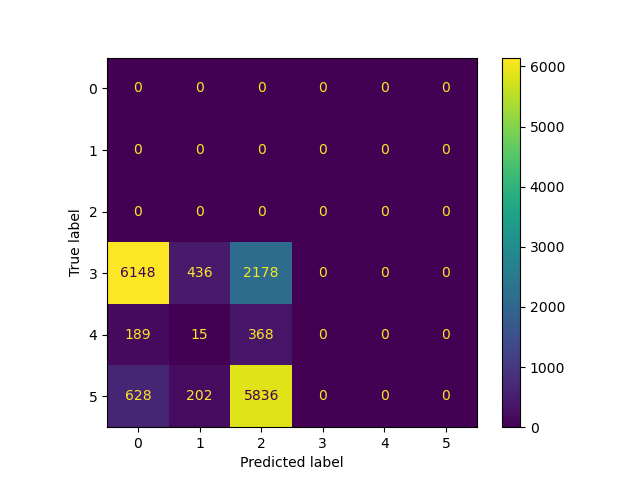
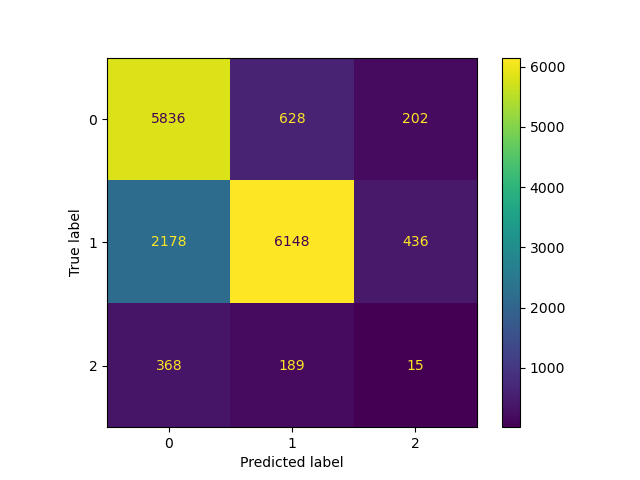
fixed mismatch of labels

diff --git a/vader.py b/vader.py
@@ -10,11 +10,11 @@ df['compound'] = df['text'].apply(lambda x: analyzer.polarity_scores(x)['compoun
 
 def get_sentiment_score(compound):
     if compound >= 0.05:
-        return "Positive"
+        return "positive"
     elif compound <= -0.05:
-        return  "Negative"
+        return  "negative"
     else:
-        return  "Neutral"
+        return  "neutral"
 
 df['sentiment'] = df['compound'].apply(get_sentiment_score)
 

diff --git a/confusion_matrix.py b/confusion_matrix.py
@@ -28,11 +28,14 @@ emotion_map = {
     'pride' : 'positive',
     'envy' : 'negative',
 }
+labels = ["positive", "negative", "neutral"]
 
 df['true_sentiment'] = df['emotion'].map(emotion_map)
 
-conf_matrix = confusion_matrix(df['true_sentiment'], df['sentiment'])
+conf_matrix = confusion_matrix(df['true_sentiment'], df['sentiment'], labels = labels)
 display = ConfusionMatrixDisplay(conf_matrix)
 display.plot()
 plt.savefig('confusion_matrix.png')
 plt.show()
+print(df['true_sentiment'].value_counts())
+print(df['sentiment'].value_counts())